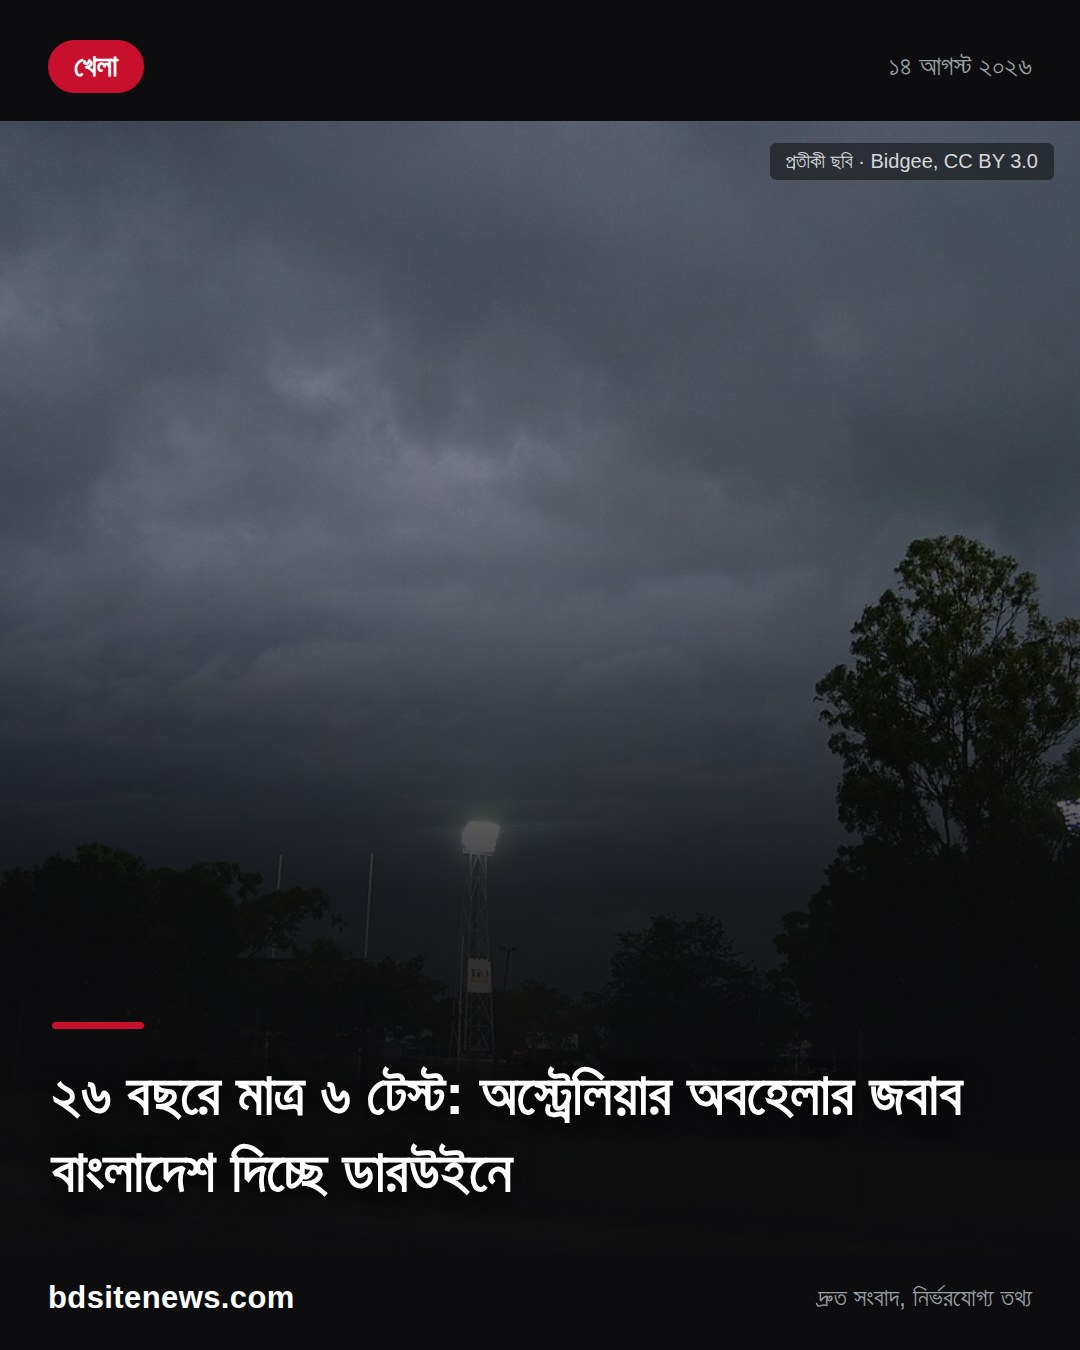
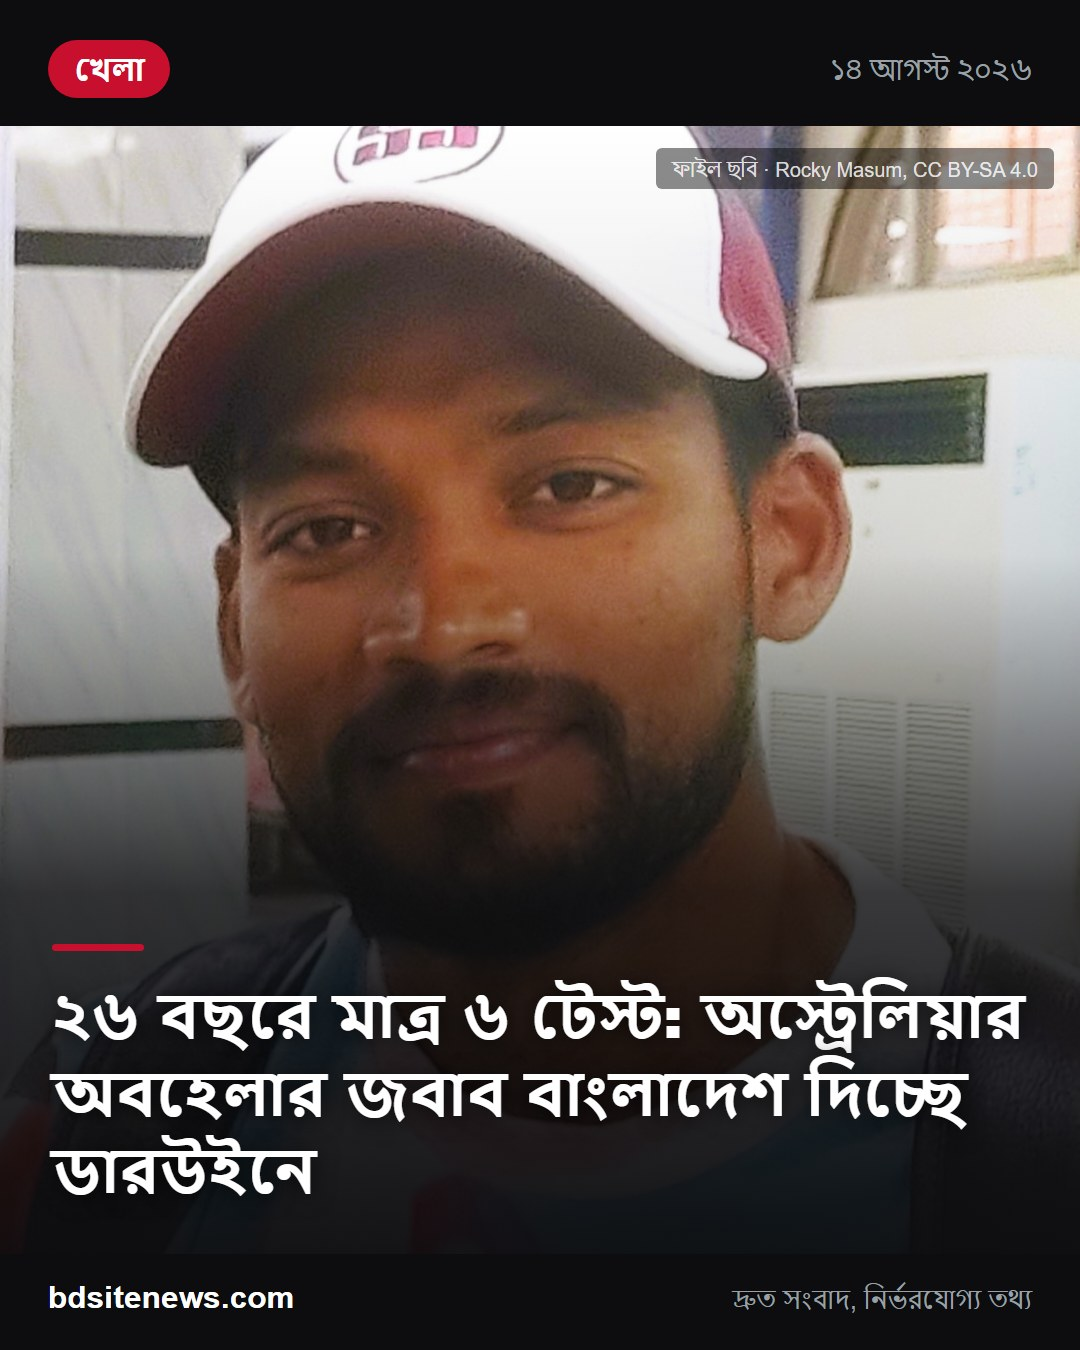
Ask the picture desk for the person, not the building
Wikimedia has properly licensed portraits of most public figures, including
the players in this series, but the image prompt was asking for generic
settings — so stories about named people got empty stadiums nobody stops
scrolling for. The prompt now prefers the named subject.

Adds an honest split between the two labels real papers use: ফাইল ছবি for a
photo genuinely of the subject taken at another time, প্রতীকী ছবি for a
stand-in that only illustrates the topic. Calling a stand-in a file photo
would claim we pictured something we did not; crime and allegation stories
stay on প্রতীকী and never request a face.

Commons rate-limits bursts with 429, which was silently costing articles
their photo; that now backs off and retries.

diff --git a/scripts/auto_publish.py b/scripts/auto_publish.py
@@ -212,6 +212,12 @@ correct on most routine items.
 - image_query: 2-4 ENGLISH keywords for a representative photograph to run with
   the story, searched against Wikimedia Commons. Think about what a picture desk
   would pull:
+    • PREFER THE NAMED PERSON the story is actually about. A reader scrolling
+      a feed stops for a face and ignores a generic building, so this is the
+      single biggest thing you can do for a story's reach. If the headline
+      names a player, minister, actor or executive, request that person by
+      name. Add a disambiguating word for common names ("Nathan Lyon
+      cricketer", "Steve Smith cricketer").
     • a named public figure, company, product, team or landmark → name it
       ("Sam Altman", "Dhaka University campus", "Bangladesh cricket team")
     • an institution or setting → the place ("Bangladesh Bank building",
@@ -222,6 +228,13 @@ correct on most routine items.
   "electricity transmission tower Bangladesh"; about exam results →
   "school examination hall"; about floods → "flood Bangladesh". These stories
   should almost always have an image — just not of anyone accused.
+
+- image_is_of_subject: true ONLY when the query names the actual person, team,
+  place or object the story is about. The photo is genuinely them, just not
+  taken at this event, so it is labelled ফাইল ছবি. Set false for a generic
+  stand-in that merely illustrates the topic, which is labelled প্রতীকী ছবি.
+  Getting this wrong claims we pictured something we did not. Always false for
+  crime, court and allegation stories.
 
   Rules that matter more than having an image:
     • For crime, court, accident or allegation stories, NEVER request a person.
@@ -284,6 +297,7 @@ ARTICLE_SCHEMA = {
         "claim": {"type": "string"},
         # English keywords for a representative photo, or "" if none is safe
         "image_query": {"type": "string"},
+        "image_is_of_subject": {"type": "boolean"},
         # The desk this story belongs on, judged from its content
         "category": {
             "type": "string",
@@ -295,7 +309,7 @@ ARTICLE_SCHEMA = {
     },
     "required": [
         "title", "lead", "body", "impact", "context", "verdict", "claim",
-        "category", "image_query",
+        "category", "image_query", "image_is_of_subject",
     ],
 }
 
@@ -780,7 +794,8 @@ def write_article(client, item: dict) -> dict | None:
             "verdict": draft["verdict"],
         }
     # A picture where one genuinely helps; the designed headline card otherwise.
-    attach_image(article, draft.get("image_query", ""))
+    attach_image(article, draft.get("image_query", ""),
+                 of_subject=bool(draft.get("image_is_of_subject")))
     time.sleep(1.5)  # be polite to the Commons API between lookups
     return article
 
@@ -805,12 +820,25 @@ def find_commons_image(query: str) -> dict | None:
         "iiprop": "url|size|extmetadata|mime", "iiurlwidth": "1200",
     }
     url = COMMONS_API + "?" + urllib.parse.urlencode(params)
-    try:
-        req = urllib.request.Request(url, headers=COMMONS_UA)
-        with urllib.request.urlopen(req, timeout=25) as resp:
-            data = json.load(resp)
-    except Exception as exc:
-        log(f"    image search failed: {str(exc)[:70]}")
+    data = None
+    # Commons rate-limits bursts with 429. Backing off costs a few seconds;
+    # not backing off costs the article its photo, silently.
+    for attempt in range(3):
+        try:
+            req = urllib.request.Request(url, headers=COMMONS_UA)
+            with urllib.request.urlopen(req, timeout=25) as resp:
+                data = json.load(resp)
+            break
+        except urllib.error.HTTPError as exc:
+            if exc.code == 429 and attempt < 2:
+                time.sleep(3 * (attempt + 1))
+                continue
+            log(f"    image search failed: HTTP {exc.code}")
+            return None
+        except Exception as exc:
+            log(f"    image search failed: {str(exc)[:70]}")
+            return None
+    if data is None:
         return None
 
     pages = data.get("query", {}).get("pages", {})
@@ -832,9 +860,15 @@ def find_commons_image(query: str) -> dict | None:
     return None
 
 
-def attach_image(article: dict, query: str) -> None:
-    """Download a representative photo and attach it, labelled প্রতীকী ছবি —
-    it illustrates the subject, it is not a photo of the event itself."""
+def attach_image(article: dict, query: str, of_subject: bool = False) -> None:
+    """Download a representative photo and attach it with an honest label.
+
+    Two different labels, because they are two different claims. A photo of
+    the person the story is about is a ফাইল ছবি — genuinely them, just not
+    from this event. A stand-in that merely illustrates the topic is a
+    প্রতীকী ছবি. Calling a stand-in a file photo would imply we photographed
+    something we did not.
+    """
     query = query.strip()
     if not query:
         return
@@ -862,11 +896,12 @@ def attach_image(article: dict, query: str) -> None:
         log(f"    image download failed: {str(exc)[:70]}")
         return
 
+    label = "ফাইল ছবি" if of_subject else "প্রতীকী ছবি"
     article["image"] = {
         "url": f"/covers/{article['slug']}.jpg",
-        "alt": f"{query} — প্রতীকী ছবি",
+        "alt": f"{query} — {label}",
         "credit": found["credit"],
-        "illustrative": True,
+        "illustrative": not of_subject,
     }
     log(f"    ✽ image: {query} ({len(payload) // 1024} KB)")
 

diff --git a/scripts/photocard.py b/scripts/photocard.py
@@ -54,7 +54,7 @@ def _credit_line(article: dict) -> str:
     image = article.get("image") or {}
     if not image:
         return ""
-    label = "প্রতীকী ছবি" if image.get("illustrative", True) else "ছবি"
+    label = "প্রতীকী ছবি" if image.get("illustrative", True) else "ফাইল ছবি"
     credit = (image.get("credit") or "").split(" — ")[0].strip()
     return f"{label} · {credit}" if credit else label
 
